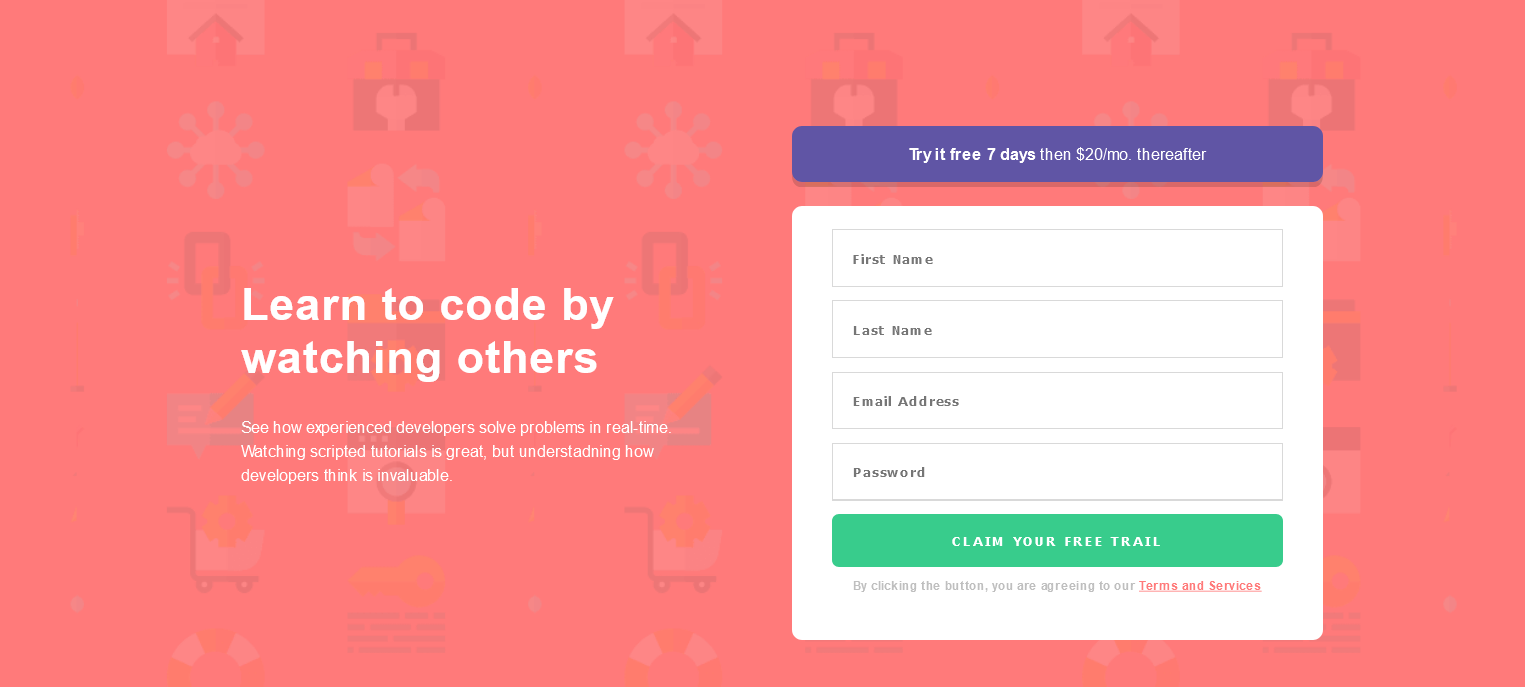
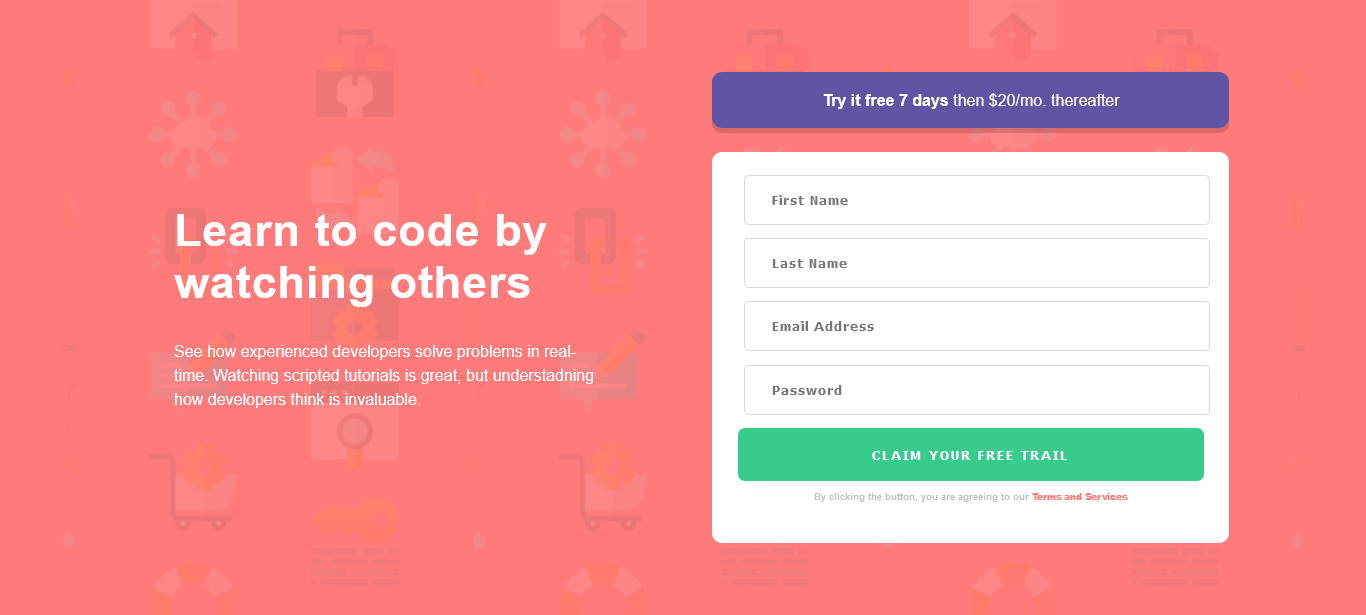
final commit

diff --git a/src/components/Main.styled.js b/src/components/Main.styled.js
@@ -12,7 +12,7 @@ const Main = styled.main`
   }
   @media (min-width: 1280px) {
     width: 80%;
-    margin: 5em auto auto auto;
+    margin: auto;
   }
 `;
 
